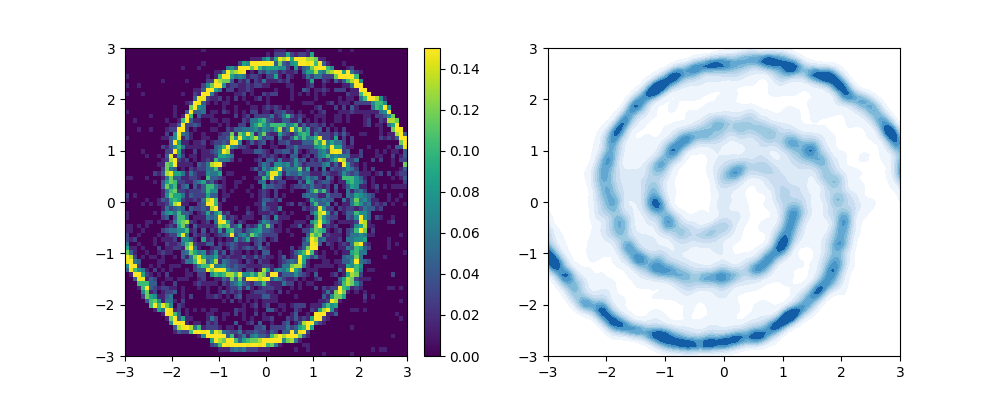
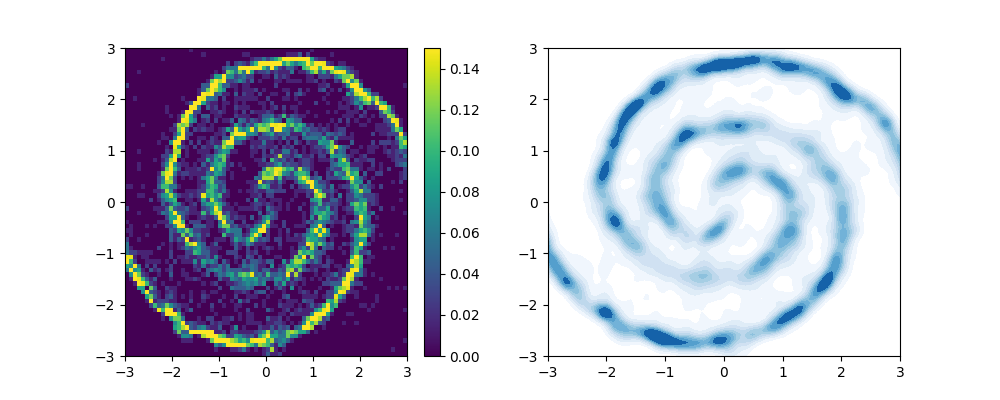
generic commit

diff --git a/scripts/transport/kvae_flow.py b/scripts/transport/kvae_flow.py
@@ -572,7 +572,7 @@ def two_d_exp(ref_gen, target_gen, N, n_iter=1001, plt_range=None, process_funcs
     return True
 
 
-def spheres_exp(N = 5000, n_iter = 101, exp_name = 'spheres_exp', n_transports = 300):
+def spheres_exp(N = 5000, n_iter = 101, exp_name = 'spheres_exp', n_transports = 150):
     n = 10
     ref_gen = lambda N: sample_base_mixtures(N = N, d = 2, n = 2)
     target_gen = lambda N: sample_spheres(N = N, n = n)
@@ -699,12 +699,7 @@ def vl_exp(N=10000, n_iter=101, Yd=18, normal=True, exp_name='vl_exp'):
 
 
 def run():
-    ref_gen = sample_normal
-    target_gen = sample_spirals
-    N = 3000
-    two_d_exp(ref_gen, target_gen, N, n_iter=101, plt_range=[[-3, 3], [-3, 3]], process_funcs=[], skip_idx=1,
-              slice_vals=[0], slice_range=[-3, 3], exp_name='spiral_kflow', n_transports=100, vmax=.15)
-
+    spheres_exp(N = 5000)
 
 if __name__=='__main__':
     run()
